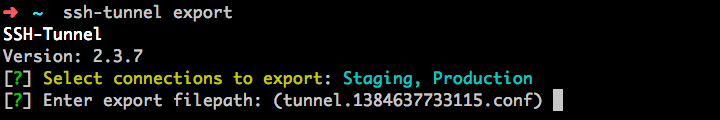
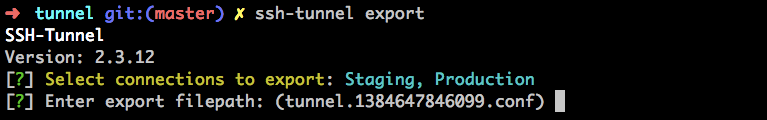
updated docs

diff --git a/README.md b/README.md
@@ -20,7 +20,7 @@ Documentation
 
 ```
 SSH-Tunnel
-Version: 2.3.11
+Version: 2.3.12
 
   Usage: ssh-tunnel [options] [command]
 
